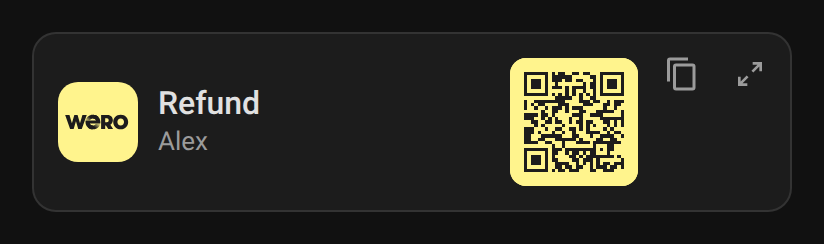
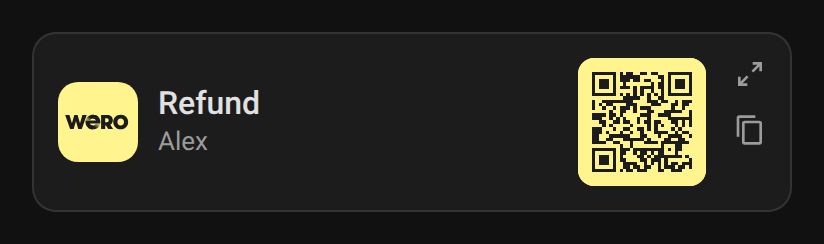
feat: translated QR label and main card picker entry (1.10.0) (#41)
**Problem**: the QR image's `aria-label` was hard-coded to "QR code",
and the main card's picker entry stayed in English while the mini card's
was translated.

**Change**
- New `qr_code` key (22 languages) for the QR image label; applied at
render time, so it follows a language change without rebuilding the
cached QR.
- New `card_name` / `card_desc` keys (22 languages): the `wero-card`
picker entry uses the page language, like `wero-mini-card`.
- Version 1.10.0, CHANGELOG.

**Tests**: label translated and updated on a language change; picker
entry in French and English fallback; new keys present and translated in
every language (parity tests pass).

---
_Generated by [Claude
Code](https://claude.ai/code/session_01F4sAn1Ek4h88w9whpdhjW8)_

---------

Changed region(s): [[0.6068, 0.2295, 0.9405, 0.7746]]

diff --git a/src/wero-card.js b/src/wero-card.js
@@ -29,6 +29,9 @@ var WeroI18n = {
     zoom_out: 'Revenir à la vue compacte',
     mini_name: 'Mini-carte QR Wero',
     mini_desc: 'QR code Wero compact : logo, titre et bénéficiaire, avec un bouton pour afficher la carte complète et son QR code à scanner.',
+    qr_code: 'QR code Wero',
+    card_name: 'Carte QR Wero',
+    card_desc: 'QR code Wero, sans CDN',
   },
   en: {
     default_title: 'Send money',
@@ -50,6 +53,9 @@ var WeroI18n = {
     zoom_out: 'Back to the compact view',
     mini_name: 'Wero QR mini card',
     mini_desc: 'Compact Wero QR code: logo, title and payee, with a button to show the full card and its scannable QR code.',
+    qr_code: 'Wero QR code',
+    card_name: 'Wero QR Card',
+    card_desc: 'Wero QR code, no CDN',
   },
   de: {
     default_title: 'Geld senden',
@@ -71,6 +77,9 @@ var WeroI18n = {
     zoom_out: 'Zurück zur kompakten Ansicht',
     mini_name: 'Wero-QR-Minikarte',
     mini_desc: 'Kompakter Wero-QR-Code: Logo, Titel und Empfänger, mit einer Schaltfläche für die vollständige Karte und ihren scannbaren QR-Code.',
+    qr_code: 'Wero-QR-Code',
+    card_name: 'Wero-QR-Karte',
+    card_desc: 'Wero-QR-Code, ohne CDN',
   },
   es: {
     default_title: 'Enviar dinero',
@@ -92,6 +101,9 @@ var WeroI18n = {
     zoom_out: 'Volver a la vista compacta',
     mini_name: 'Minitarjeta QR de Wero',
     mini_desc: 'Código QR de Wero compacto: logotipo, título y beneficiario, con un botón para mostrar la tarjeta completa y su código QR escaneable.',
+    qr_code: 'Código QR de Wero',
+    card_name: 'Tarjeta QR de Wero',
+    card_desc: 'Código QR de Wero, sin CDN',
   },
   sr: {
     default_title: 'Пошаљи новац',
@@ -113,6 +125,9 @@ var WeroI18n = {
     zoom_out: 'Назад на компактни приказ',
     mini_name: 'Мини картица Wero QR',
     mini_desc: 'Компактни Wero QR код: лого, наслов и прималац, са дугметом за целу картицу и њен QR код за скенирање.',
+    qr_code: 'Wero QR код',
+    card_name: 'Картица Wero QR',
+    card_desc: 'Wero QR код, без спољних ресурса',
   },
   'sr-Latn': {
     default_title: 'Pošalji novac',
@@ -134,6 +149,9 @@ var WeroI18n = {
     zoom_out: 'Nazad na kompaktni prikaz',
     mini_name: 'Mini kartica Wero QR',
     mini_desc: 'Kompaktni Wero QR kod: logo, naslov i primalac, sa dugmetom za celu karticu i njen QR kod za skeniranje.',
+    qr_code: 'Wero QR kod',
+    card_name: 'Kartica Wero QR',
+    card_desc: 'Wero QR kod, bez spoljnih resursa',
   },
   it: {
     default_title: 'Invia denaro',
@@ -155,6 +173,9 @@ var WeroI18n = {
     zoom_out: 'Torna alla vista compatta',
     mini_name: 'Mini scheda QR Wero',
     mini_desc: 'Codice QR Wero compatto: logo, titolo e beneficiario, con un pulsante per la scheda completa e il suo codice QR da scansionare.',
+    qr_code: 'Codice QR Wero',
+    card_name: 'Scheda QR Wero',
+    card_desc: 'Codice QR Wero, senza CDN',
   },
   nl: {
     default_title: 'Geld versturen',
@@ -176,6 +197,9 @@ var WeroI18n = {
     zoom_out: 'Terug naar de compacte weergave',
     mini_name: 'Wero-QR-minikaart',
     mini_desc: 'Compacte Wero-QR-code: logo, titel en begunstigde, met een knop voor de volledige kaart en de scanbare QR-code.',
+    qr_code: 'Wero-QR-code',
+    card_name: 'Wero-QR-kaart',
+    card_desc: 'Wero-QR-code, zonder CDN',
   },
   pt: {
     default_title: 'Enviar dinheiro',
@@ -197,6 +221,9 @@ var WeroI18n = {
     zoom_out: 'Voltar à vista compacta',
     mini_name: 'Mini cartão QR Wero',
     mini_desc: 'Código QR Wero compacto: logótipo, título e beneficiário, com um botão para o cartão completo e o seu código QR para leitura.',
+    qr_code: 'Código QR Wero',
+    card_name: 'Cartão QR Wero',
+    card_desc: 'Código QR Wero, sem CDN',
   },
   pl: {
     default_title: 'Wyślij pieniądze',
@@ -218,6 +245,9 @@ var WeroI18n = {
     zoom_out: 'Wróć do widoku kompaktowego',
     mini_name: 'Mini karta QR Wero',
     mini_desc: 'Kompaktowy kod QR Wero: logo, tytuł i odbiorca, z przyciskiem pełnej karty z kodem QR do zeskanowania.',
+    qr_code: 'Kod QR Wero',
+    card_name: 'Karta QR Wero',
+    card_desc: 'Kod QR Wero, bez CDN',
   },
   ro: {
     default_title: 'Trimite bani',
@@ -239,6 +269,9 @@ var WeroI18n = {
     zoom_out: 'Înapoi la vizualizarea compactă',
     mini_name: 'Mini card QR Wero',
     mini_desc: 'Cod QR Wero compact: siglă, titlu și beneficiar, cu un buton pentru cardul complet și codul său QR de scanat.',
+    qr_code: 'Cod QR Wero',
+    card_name: 'Card QR Wero',
+    card_desc: 'Cod QR Wero, fără CDN',
   },
   da: {
     default_title: 'Send penge',
@@ -260,6 +293,9 @@ var WeroI18n = {
     zoom_out: 'Tilbage til kompakt visning',
     mini_name: 'Wero-QR-minikort',
     mini_desc: 'Kompakt Wero-QR-kode: logo, titel og modtager, med en knap til hele kortet og dets QR-kode til scanning.',
+    qr_code: 'Wero-QR-kode',
+    card_name: 'Wero-QR-kort',
+    card_desc: 'Wero-QR-kode, uden CDN',
   },
   sv: {
     default_title: 'Skicka pengar',
@@ -281,6 +317,9 @@ var WeroI18n = {
     zoom_out: 'Tillbaka till kompakt vy',
     mini_name: 'Minikort för Wero-QR',
     mini_desc: 'Kompakt Wero-QR-kod: logotyp, titel och mottagare, med en knapp för hela kortet och dess skanningsbara QR-kod.',
+    qr_code: 'Wero-QR-kod',
+    card_name: 'Wero-QR-kort',
+    card_desc: 'Wero-QR-kod, utan CDN',
   },
   bg: {
     default_title: 'Изпрати пари',
@@ -302,6 +341,9 @@ var WeroI18n = {
     zoom_out: 'Обратно към компактния изглед',
     mini_name: 'Мини карта Wero QR',
     mini_desc: 'Компактен QR код на Wero: лого, заглавие и получател, с бутон за цялата карта и нейния QR код за сканиране.',
+    qr_code: 'QR код на Wero',
+    card_name: 'Карта Wero QR',
+    card_desc: 'QR код на Wero, без CDN',
   },
   ru: {
     default_title: 'Перевод денег',
@@ -323,6 +365,9 @@ var WeroI18n = {
     zoom_out: 'Вернуться к компактному виду',
     mini_name: 'Мини-карточка Wero QR',
     mini_desc: 'Компактный QR-код Wero: логотип, заголовок и получатель, с кнопкой полной карточки с QR-кодом для сканирования.',
+    qr_code: 'QR-код Wero',
+    card_name: 'Карточка Wero QR',
+    card_desc: 'QR-код Wero, без CDN',
   },
   uk: {
     default_title: 'Надіслати гроші',
@@ -344,6 +389,9 @@ var WeroI18n = {
     zoom_out: 'Повернутися до компактного вигляду',
     mini_name: 'Міні-картка Wero QR',
     mini_desc: 'Компактний QR-код Wero: логотип, заголовок і одержувач, з кнопкою повної картки з QR-кодом для сканування.',
+    qr_code: 'QR-код Wero',
+    card_name: 'Картка Wero QR',
+    card_desc: 'QR-код Wero, без CDN',
   },
   hu: {
     default_title: 'Pénz küldése',
@@ -365,6 +413,9 @@ var WeroI18n = {
     zoom_out: 'Vissza a kompakt nézethez',
     mini_name: 'Wero QR mini kártya',
     mini_desc: 'Kompakt Wero QR-kód: logó, cím és kedvezményezett, a teljes kártya és a beolvasható QR-kód gombjával.',
+    qr_code: 'Wero QR-kód',
+    card_name: 'Wero QR kártya',
+    card_desc: 'Wero QR-kód, CDN nélkül',
   },
   sk: {
     default_title: 'Poslať peniaze',
@@ -386,6 +437,9 @@ var WeroI18n = {
     zoom_out: 'Späť na kompaktné zobrazenie',
     mini_name: 'Mini karta Wero QR',
     mini_desc: 'Kompaktný QR kód Wero: logo, názov a príjemca, s tlačidlom celej karty s QR kódom na naskenovanie.',
+    qr_code: 'QR kód Wero',
+    card_name: 'Karta Wero QR',
+    card_desc: 'QR kód Wero, bez CDN',
   },
   cs: {
     default_title: 'Poslat peníze',
@@ -407,6 +461,9 @@ var WeroI18n = {
     zoom_out: 'Zpět na kompaktní zobrazení',
     mini_name: 'Mini karta Wero QR',
     mini_desc: 'Kompaktní QR kód Wero: logo, název a příjemce, s tlačítkem celé karty s QR kódem k naskenování.',
+    qr_code: 'QR kód Wero',
+    card_name: 'Karta Wero QR',
+    card_desc: 'QR kód Wero, bez CDN',
   },
   sl: {
     default_title: 'Pošlji denar',
@@ -428,6 +485,9 @@ var WeroI18n = {
     zoom_out: 'Nazaj na kompaktni pogled',
     mini_name: 'Mini kartica Wero QR',
     mini_desc: 'Kompaktna koda QR Wero: logotip, naslov in prejemnik, z gumbom za celotno kartico s kodo QR za skeniranje.',
+    qr_code: 'Koda QR Wero',
+    card_name: 'Kartica Wero QR',
+    card_desc: 'Koda QR Wero, brez CDN',
   },
   lv: {
     default_title: 'Sūtīt naudu',
@@ -449,6 +509,9 @@ var WeroI18n = {
     zoom_out: 'Atpakaļ uz kompakto skatu',
     mini_name: 'Wero QR mini karte',
     mini_desc: 'Kompakts Wero QR kods: logotips, nosaukums un saņēmējs, ar pogu pilnajai kartei un tās skenējamajam QR kodam.',
+    qr_code: 'Wero QR kods',
+    card_name: 'Wero QR karte',
+    card_desc: 'Wero QR kods, bez CDN',
   },
   el: {
     default_title: 'Στείλτε χρήματα',
@@ -470,6 +533,9 @@ var WeroI18n = {
     zoom_out: 'Επιστροφή στη συμπαγή προβολή',
     mini_name: 'Μίνι κάρτα Wero QR',
     mini_desc: 'Συμπαγής κωδικός QR Wero: λογότυπο, τίτλος και δικαιούχος, με κουμπί για την πλήρη κάρτα και τον κωδικό QR της για σάρωση.',
+    qr_code: 'Κωδικός QR Wero',
+    card_name: 'Κάρτα Wero QR',
+    card_desc: 'Κωδικός QR Wero, χωρίς CDN',
   },
 };
 
@@ -565,7 +631,7 @@ class WeroCard extends HTMLElement {
       }
     }
     return '<svg xmlns="http://www.w3.org/2000/svg" width="' + size + '" height="' + size +
-      '" viewBox="0 0 ' + dim + ' ' + dim + '" shape-rendering="crispEdges" role="img" aria-label="QR code">' +
+      '" viewBox="0 0 ' + dim + ' ' + dim + '" shape-rendering="crispEdges" role="img">' +
       '<rect width="' + dim + '" height="' + dim + '" fill="#fff48d"/><path fill="#1d1c1c" d="' + d + '"/></svg>';
   }
 
@@ -615,7 +681,8 @@ class WeroCard extends HTMLElement {
       this._svg = this._buildQrSvg(c.url, size);
       this._svgKey = key;
     }
-    var svg = this._svg;
+    // The label follows the language, the cached QR does not depend on it
+    var svg = this._svg.replace(' role="img"', ` role="img" aria-label="${weroEsc(this._t('qr_code'))}"`);
     // Mini card in its compact view: one row, the QR as a thumbnail that opens the full screen QR, like the big one
     var compact = this._compact();
     // A configured size overrides the 176 px of the stylesheet (it still shrinks to fit the card)
@@ -631,6 +698,9 @@ class WeroCard extends HTMLElement {
         <dialog id="zoom" aria-label="${zoom}"></dialog>
         ${c.name ? `<div class="info-row"><div class="lbl">${weroEsc(this._t('payee'))}</div><div class="val">${weroEsc(c.name)}</div></div>` : ''}
         <div class="hint">${weroEsc(this._t('hint'))}</div>`;
+    var copyBtn = `<button id="copy" title="${copy}" aria-label="${copy}"><ha-icon icon="mdi:content-copy" id="ico"></ha-icon></button>`;
+    // Compact view: the copy button goes under the detail button, so the thumbnail sits right next to that column
+    var actions = compact ? `<div class="side">${this._zoomButton()}${copyBtn}</div>` : copyBtn + this._zoomButton();
     if (compact) {
       var sub = c.name ? `<span class="sub" title="${weroEsc(c.name)}">${weroEsc(c.name)}</span>` : '';
       title = `<div class="txt">${title}${sub}</div>${qrEl}`;
@@ -680,7 +750,6 @@ class WeroCard extends HTMLElement {
         :host([mini])::before { content: ""; display: grid; grid-template-columns: minmax(0, 240px); height: 0; }
         ha-card.mini { container-type: inline-size; }
         ha-card.mini .header { margin-bottom: 0; }
-        ha-card.mini #copy { align-self: flex-start; margin-top: -4px; }
         .txt { flex: 1 1 auto; min-width: 0; display: flex; flex-direction: column; gap: 2px; }
         .txt .name { flex: none; min-width: 0; }
         .sub { font-size: 13px; line-height: 1.25; color: var(--secondary-text-color); white-space: nowrap; overflow: hidden; text-overflow: ellipsis; }
@@ -691,6 +760,10 @@ class WeroCard extends HTMLElement {
         .zoom ha-icon { color: inherit; --mdc-icon-size: 16px; }
         .zoom:hover { background: color-mix(in srgb, var(--secondary-text-color) 14%, transparent); color: var(--primary-text-color); }
         .zoom:focus-visible { outline: 2px solid var(--primary-color, #03a9f4); outline-offset: 1px; }
+        /* The detail button with the copy button under it, in a column at the top right (the 4 px of the button's own margin) */
+        .side { flex: none; align-self: flex-start; display: flex; flex-direction: column; gap: 4px; margin: -4px -4px -4px 0; }
+        .side .zoom { margin: 0; }
+        .side #copy ha-icon { --mdc-icon-size: 16px; }
         /* A very narrow mini card: a smaller thumbnail, the copy button gives way (the full card keeps it) */
         @container (max-width: 200px) {
           ha-card.mini { padding: 10px; }
@@ -705,7 +778,7 @@ class WeroCard extends HTMLElement {
         <div class="header">
           ${c.logo ? `<img class="logo" src="${WERO_LOGO}" alt="Wero">` : '<div class="badge"><ha-icon icon="mdi:qrcode-scan"></ha-icon></div>'}
           ${title}
-          <button id="copy" title="${copy}" aria-label="${copy}"><ha-icon icon="mdi:content-copy" id="ico"></ha-icon></button>${this._zoomButton()}
+          ${actions}
         </div>
         ${body}
         <span class="sr" id="live" aria-live="polite"></span>
@@ -934,7 +1007,7 @@ var weroPicker = (type, name, description) => {
   if (window.customCards.some((c) => c.type === type)) return;
   window.customCards.push({ type: type, name: name, description: description, preview: true, documentationURL: 'https://github.com/juju35/ha-wero-card' });
 };
-weroPicker('wero-card', 'Wero QR Card', 'Wero QR code, no CDN');
-// The mini card's entry in the language of the page (Home Assistant sets it on <html>)
+// Both entries in the language of the page (Home Assistant sets it on <html>)
 var weroPickerI18n = WeroI18n[weroResolveLang(document.documentElement.lang)];
+weroPicker('wero-card', weroPickerI18n.card_name, weroPickerI18n.card_desc);
 weroPicker('wero-mini-card', weroPickerI18n.mini_name, weroPickerI18n.mini_desc);

diff --git a/README.md b/README.md
@@ -105,7 +105,7 @@ name: Alex
 zoom: true
 ```
 
-The mini card takes the same options as the full card, plus `zoom`. It shows the logo, the title and the payee name on one row, with a small QR thumbnail on the right. A tap on the thumbnail opens the QR code full screen, like the big one of the full card. The detail button (top right) switches to the full card; the button, or a click anywhere outside the card, brings the compact view back. The copy button stays in the compact header; on a card 200 px wide or less the thumbnail gets smaller and the copy button gives way (the full card keeps it).
+The mini card takes the same options as the full card, plus `zoom`. It shows the logo, the title and the payee name on one row, with a small QR thumbnail on the right. A tap on the thumbnail opens the QR code full screen, like the big one of the full card. The detail button (top right) switches to the full card; the button, or a click anywhere outside the card, brings the compact view back. The copy button sits under the detail button, so the thumbnail lines up with the other mini cards; on a card 200 px wide or less the thumbnail gets smaller and the copy button gives way (the full card keeps it).
 
 ### Options reference
 

diff --git a/CHANGELOG.md b/CHANGELOG.md
@@ -1,5 +1,12 @@
 # Changelog
 
+## 1.10.0 - 2026-11-08
+
+### What's new
+- The QR code image's screen reader label is translated in the 22 languages of the card and follows a language change.
+- The main card's name and description in the card picker are shown in the language of Home Assistant, like the mini card's.
+- Mini card: the copy button moves under the detail button in the top right corner, so the QR thumbnail sits right next to that column and lines up with the other mini cards (such as the Wi-Fi one).
+
 ## 1.9.2 - 2026-11-07
 
 ### Fixes
